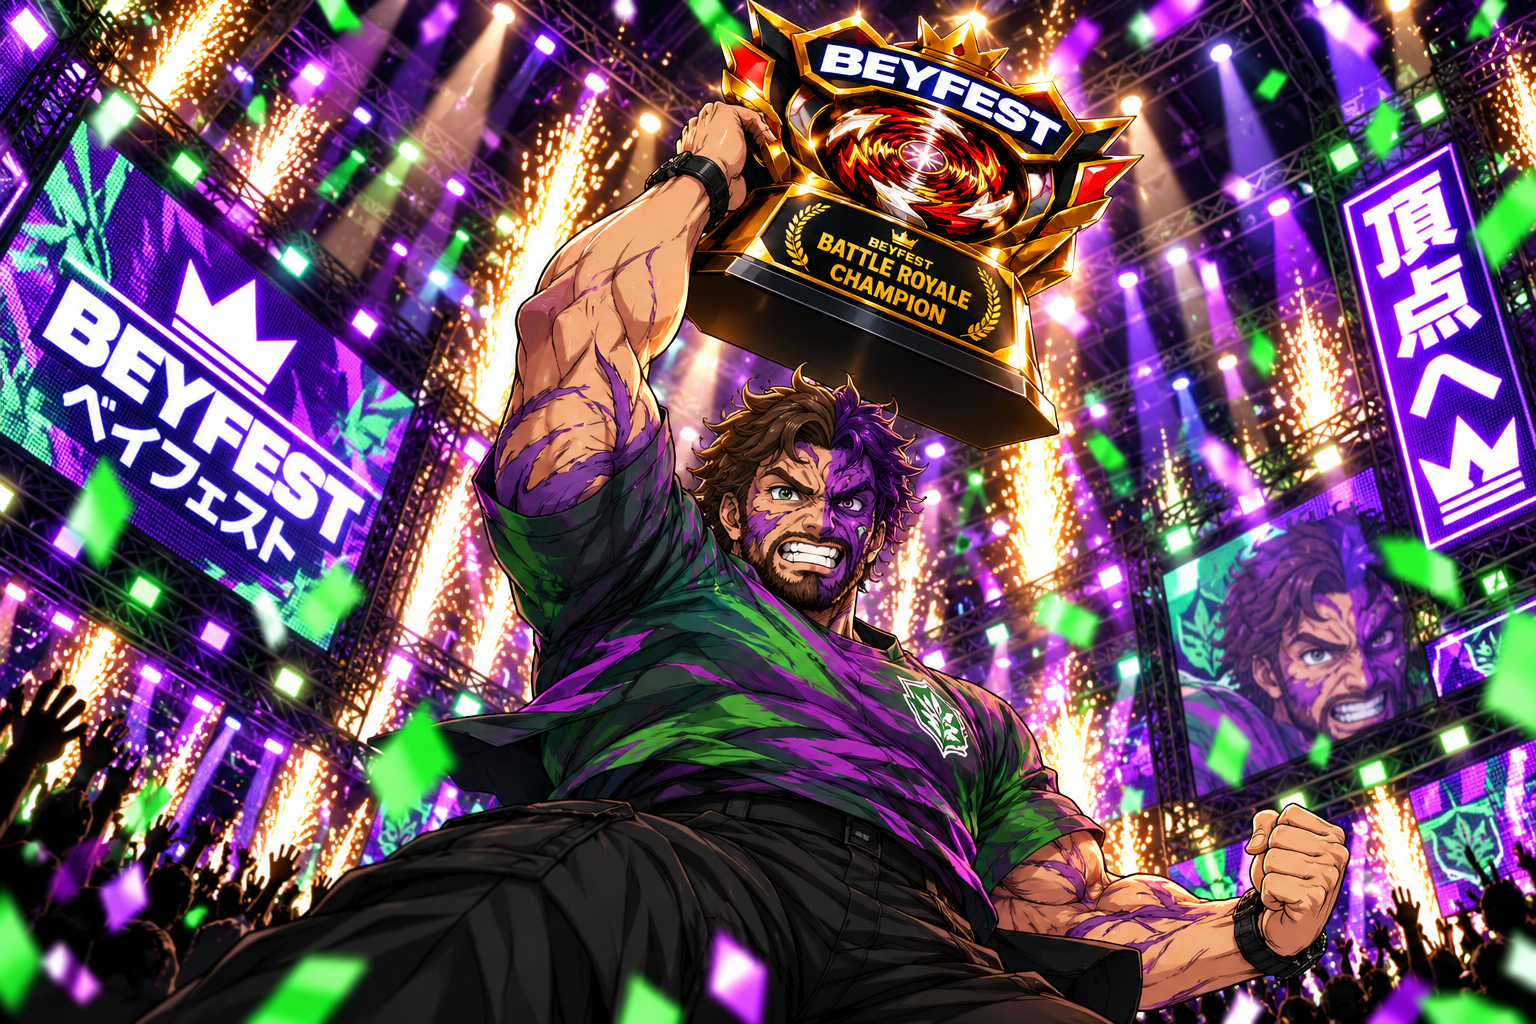
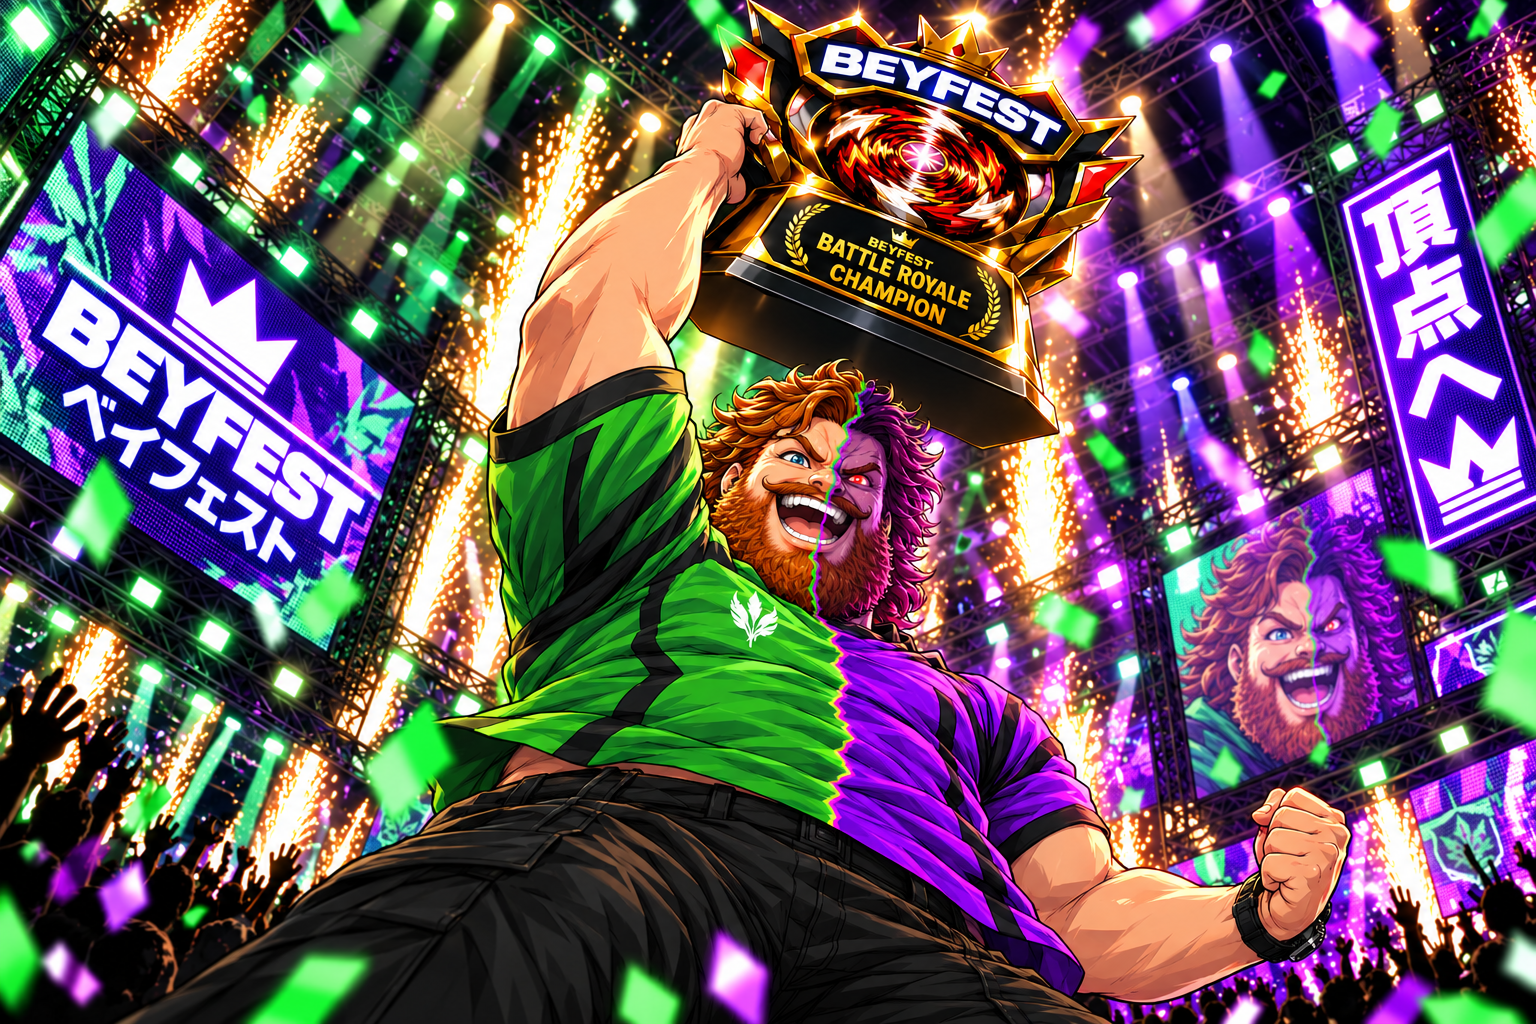
new Joyzerker victory and royale victory images to match the split design

diff --git a/fighter-art/prompts/joyzerker.md b/fighter-art/prompts/joyzerker.md
@@ -40,3 +40,19 @@ reference, since there was no earlier approved version.
 - Photos give a strong likeness on the first try; the face then needs pushing toward
   anime ("bigger expressive eyes, simplified nose and mouth, bold clumps").
 - After any edit, check the file for real alpha: a grey checkerboard can be painted in.
+
+## Victory images (2026-10-28): approved
+
+Same recipe as the Breycist: a new chat with the old victory image (scene template),
+`approved/joyzerker.png` (character) and the Pugilist head close-up (rendering). The
+prompt spelled out the split (centre line, which colour and eye goes on each half)
+and asked for the big screens to show the split face too.
+
+- **Belt (`approved/victory-joyzerker.png`):** first try. The arms stayed rather
+  muscular from the old template.
+- **Royale (`approved/royale-victory-joyzerker.png`):** first try, with "heavy-set,
+  thick arms, no visible veins". The split stops at the waist (plain black trousers)
+  and the purple-side arm isn't shaded purple; the user accepted it.
+
+The attachments were sent once without a prompt; that's harmless, since the prompt
+can follow as the next message ("the three images above, in order…").
